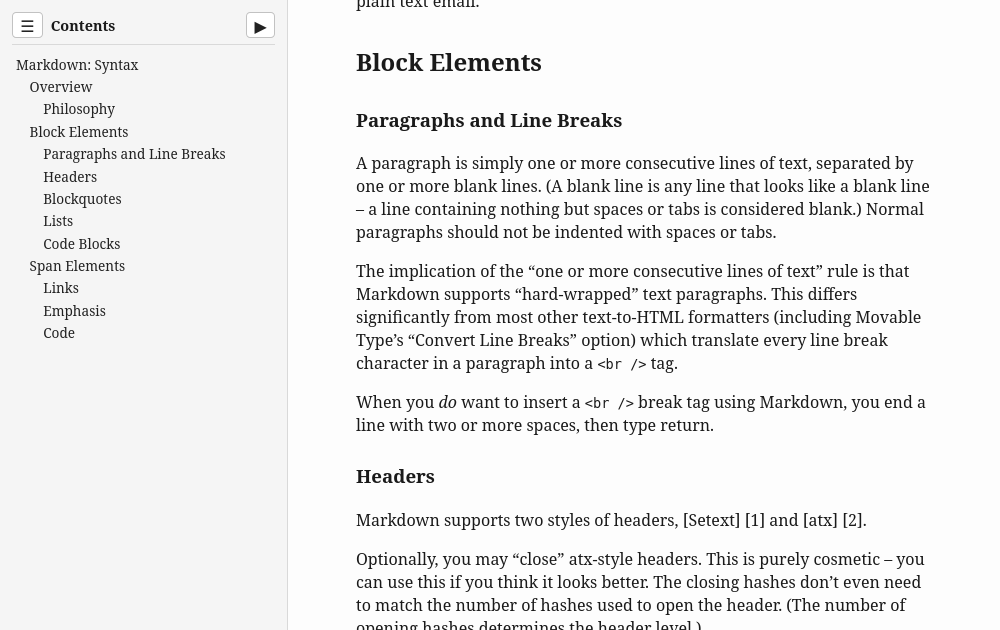
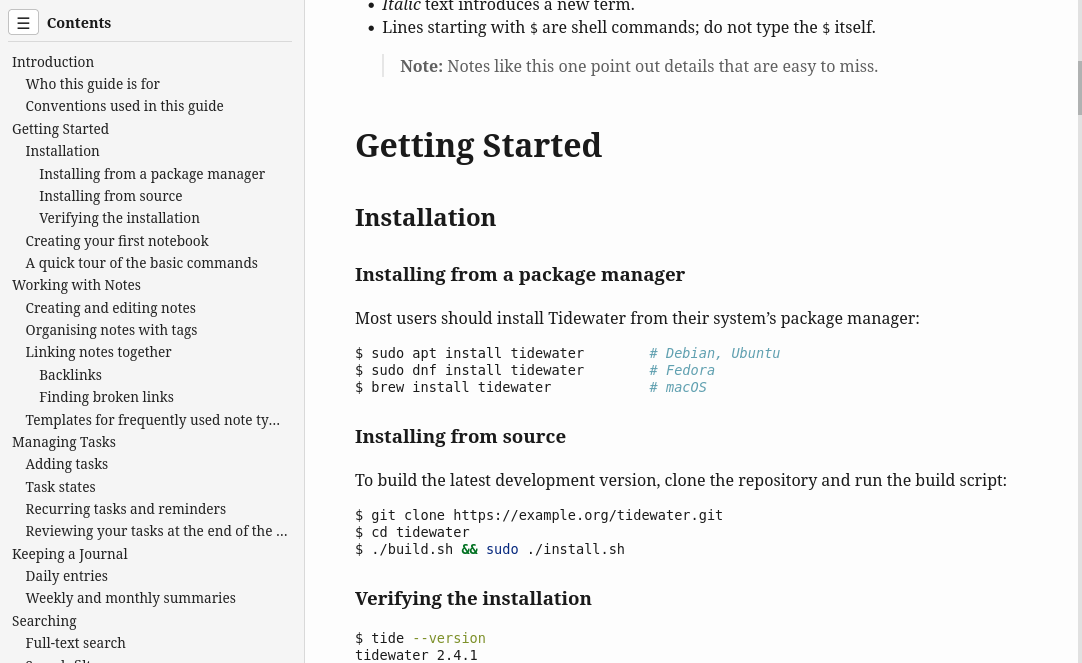
Make sidebar width draggable instead of just two fixed sizes

diff --git a/README.md b/README.md
@@ -14,6 +14,10 @@ pandoc -s --toc --lua-filter floating-sidebar-toc.lua -o output.html input.md
 
 (Works also with YAML metadata that specifies custom "maxwidth".)
 
+The sidebar can be shown or hidden with the ☰ button. Drag its right edge to
+resize it (the width is remembered when the browser allows `localStorage`),
+or double-click the edge to reset it to the default width.
+
 As a side note, if you have Mermaid diagrams or similar embedded in your
 markdown files, you can also have them rendered in a self-contained way to your
 HTML output. First, make sure you have `mermaid-cli` installed (from NPM or
@@ -32,8 +36,7 @@ pandoc -s --embed-resources --toc --lua-filter /usr/share/pandoc/filter/diagram/
 
 SPDX-License-Identifier: 0BSD
 
-Copyright (C) 2026 by oko256
-(https://github.com/oko256/pandoc-floating-sidebar-toc)
+Copyright (C) 2026 Olli Kokko <https://github.com/oko256/pandoc-floating-sidebar-toc>
 
 Permission to use, copy, modify, and/or distribute this software for any
 purpose with or without fee is hereby granted.
